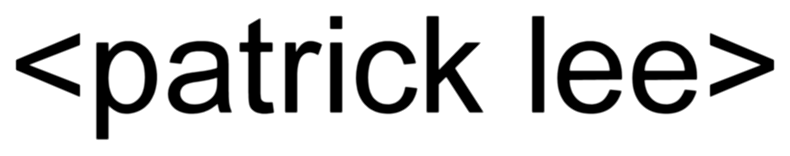
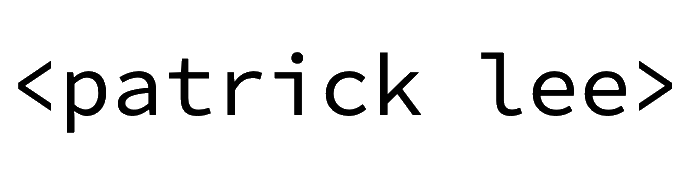
General CSS styles

Changed region(s): [[0.0, 0.0769, 0.63, 0.8974], [0.66, 0.0769, 0.99, 0.7436], [0.42, 0.0769, 0.45, 0.2051]]

diff --git a/css/style.css b/css/style.css
@@ -1,0 +1,87 @@
+*,
+*::before,
+*::after {
+    box-sizing: border-box;
+}
+
+/* Custom Properties */
+
+:root {
+    --ff-primary: 'Source Sans Pro', sans-serif;
+    --ff-secondary: 'Source Code Pro', monospace;
+
+    --fw-reg: 300;
+    --fw-bold: 900;
+
+    --clr-light: #fff;
+    --clr-dark: #303030;
+    --clr-accent: #ff80ab;
+
+    --fs-h1: 3rem;
+    --fs-h2: 2.25rem;
+    --fs-h3: 1.25rem;
+    --fs-body: 1rem;
+}
+
+@media (min-width: 800px) {
+    :root {
+        --fs-h1: 4.5rem;
+        --fs-h2: 3.75rem;
+        --fs-h3: 1.5rem;
+        --fs-body: 1.125rem;
+    }
+}
+
+/* General styles */
+
+body {
+    background: var(--clr-light);
+    color: var(--clr-dark);
+    margin: 0;
+    font-family: var(--ff-primary);
+    font-size: var(--fs-body);
+    line-height: 1.6;
+}
+
+img {
+    display: block;
+    max-width: 100%;
+}
+
+strong { --fw-weight:var(--fw-bold) }
+
+/* Typography */
+
+h1,
+h2,
+h3 {
+    line-height: 1.1;
+    margin: 0;
+}
+
+h1 { font-size: var(--fs-h1) }
+h2 { font-size: var(--fs-h2) }
+h3 { font-size: var(--fs-h3) }
+
+.section__title {
+    margin-bottom: .25em;
+}
+
+.section__title--intro {
+    font-weight: var(--fw-reg);
+}
+
+.section__title--intro strong {
+    display: block;
+}
+
+.section__subtitle {
+    margin: 0;
+    font-size: var(--fs-h3);
+}
+
+.section__subtitle--intro,
+.section__subtitle--about {
+    background: var(--clr-accent);
+    font-family: var(--ff-secondary);
+}

diff --git a/index.html b/index.html
@@ -9,6 +9,11 @@
         <link rel="stylesheet"
         href="https://cdnjs.cloudflare.com/ajax/libs/font-awesome/5.15.1/css/all.min.css">
 
+        <!-- Fonts -->
+        <link href="https://fonts.googleapis.com/css?family=Source+Code+Pro:400,900|Source+Sans+Pro:300,900&display=swap" rel="stylesheet">
+
+        <link rel="stylesheet" href="css/style.css">
+
     </head>
     <body>
         <header>    
